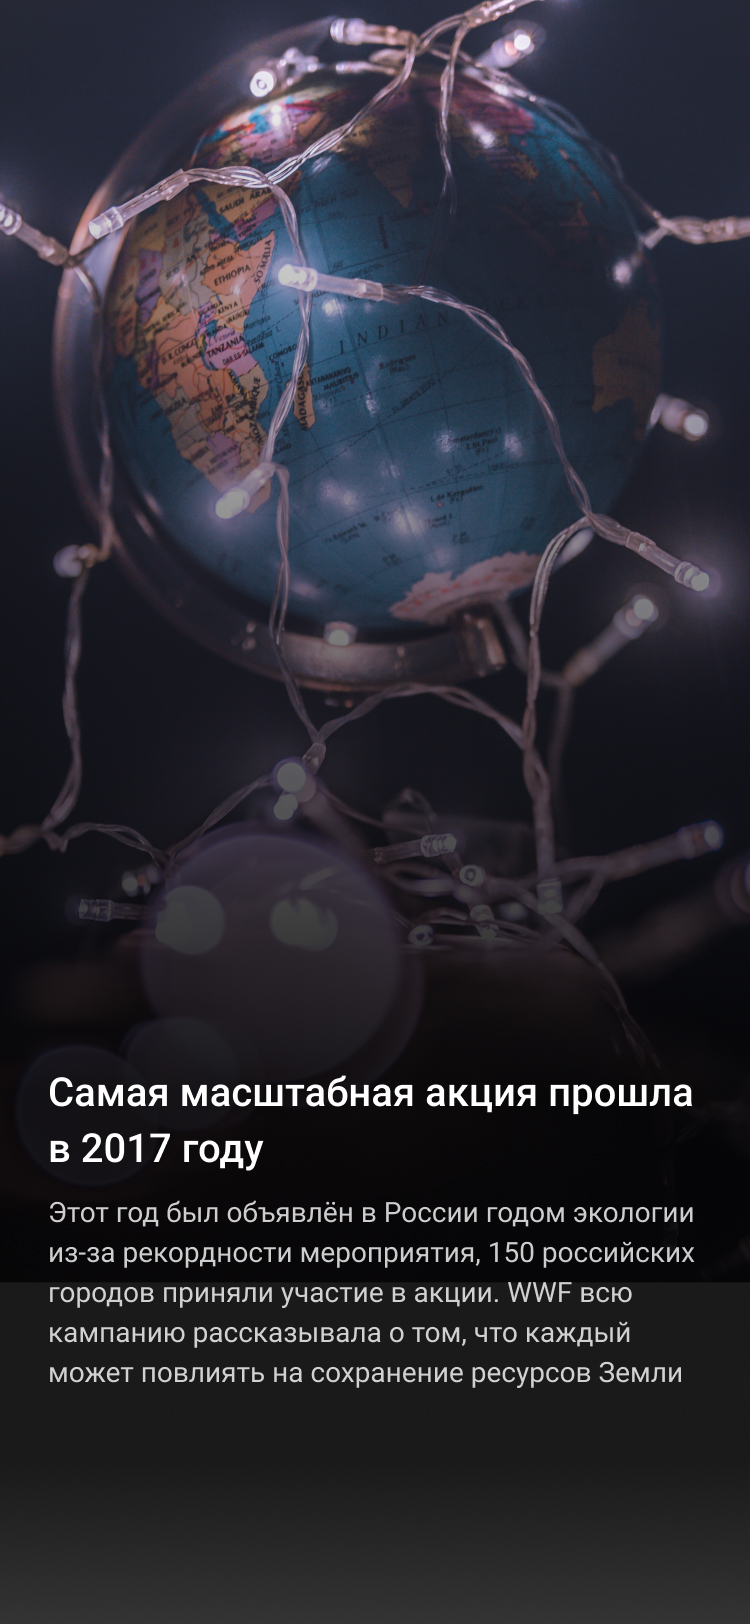
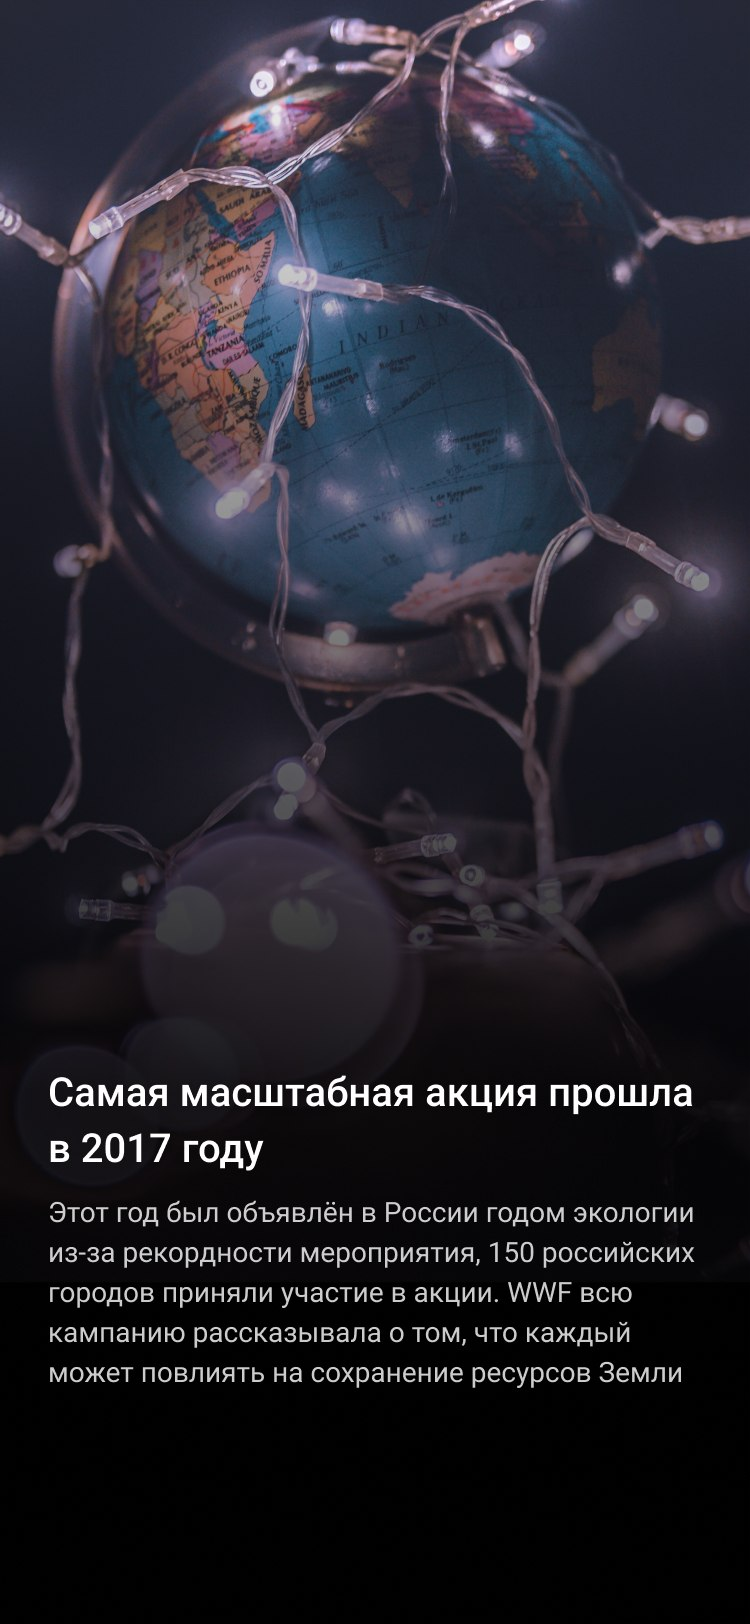
add preview for stories

Changed region(s): [[0.0, 0.7697, 1.0, 1.0]]

diff --git a/src/stories.ts b/src/stories.ts
@@ -1,6 +1,12 @@
 import { Story } from './types/props';
 import { timestamp } from './helpers/date';
 
+import preview1 from './images/stories/preview-1.jpg';
+import preview2 from './images/stories/preview-2.jpg';
+import preview3 from './images/stories/preview-3.jpg';
+import preview4 from './images/stories/preview-4.jpg';
+import preview5 from './images/stories/preview-5.jpg';
+
 import poster11 from './images/stories/stories1_1.jpg';
 import poster12 from './images/stories/stories1_2.jpg';
 import poster13 from './images/stories/stories1_3.jpg';
@@ -18,7 +24,7 @@ import poster53 from './images/stories/stories5_3.jpg';
 let stories: Array<Story> = [{
     id: 'story-1',
     name: 'Что такое «Час Земли»',
-    photo: poster11,
+    photo: preview1,
     seen: false,
     gradient: 'red-orange',
     lastUpdated: timestamp(),
@@ -56,7 +62,7 @@ let stories: Array<Story> = [{
 }, {
     id: 'story-2',
     name: 'С чего всё начиналось',
-    photo: poster21,
+    photo: preview2,
     seen: false,
     gradient: 'blue-green',
     lastUpdated: timestamp(),
@@ -94,7 +100,7 @@ let stories: Array<Story> = [{
 }, {
     id: 'story-3',
     name: 'Подарок от WWF',
-    photo: poster31,
+    photo: preview3,
     seen: false,
     gradient: 'orange-yellow',
     lastUpdated: timestamp(),
@@ -112,7 +118,7 @@ let stories: Array<Story> = [{
     }, {
     id: 'story-4',
     name: 'Час Земли в России',
-    photo: poster41,
+    photo: preview4,
     seen: false,
     gradient: 'green-yellow',
     lastUpdated: timestamp(),
@@ -150,7 +156,7 @@ let stories: Array<Story> = [{
 }, {
     id: 'story-5',
     name: 'Что будет в 2020 году',
-    photo: poster51,
+    photo: preview5,
     seen: false,
     gradient: 'purple-aqua',
     lastUpdated: timestamp(),
